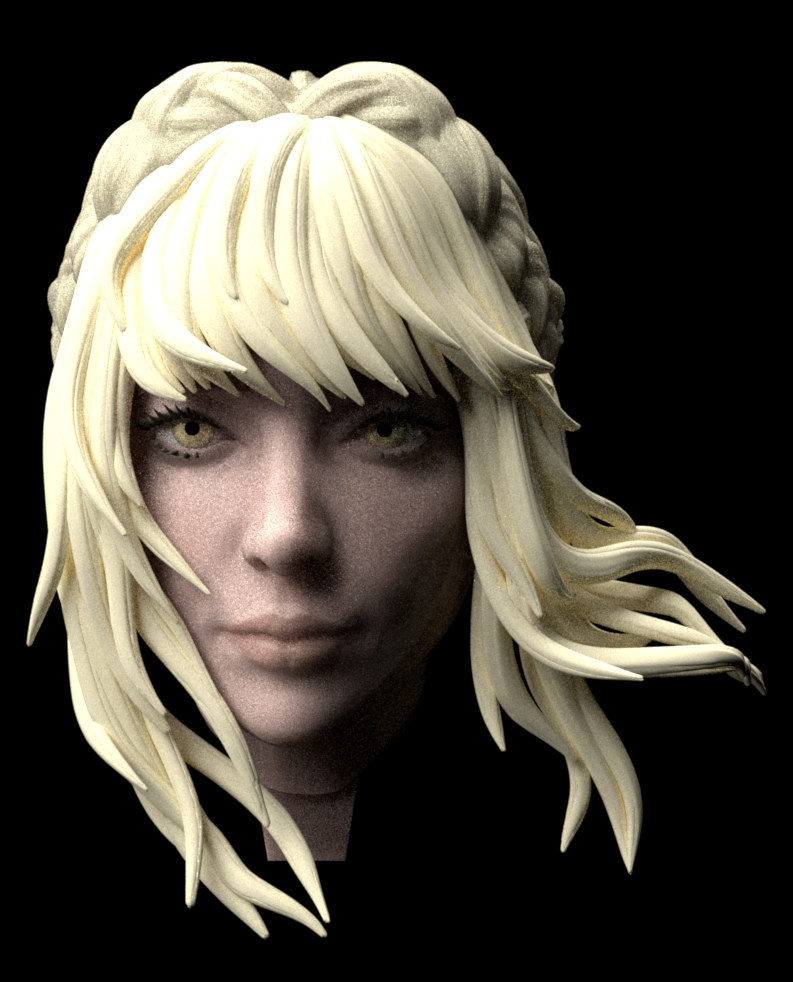
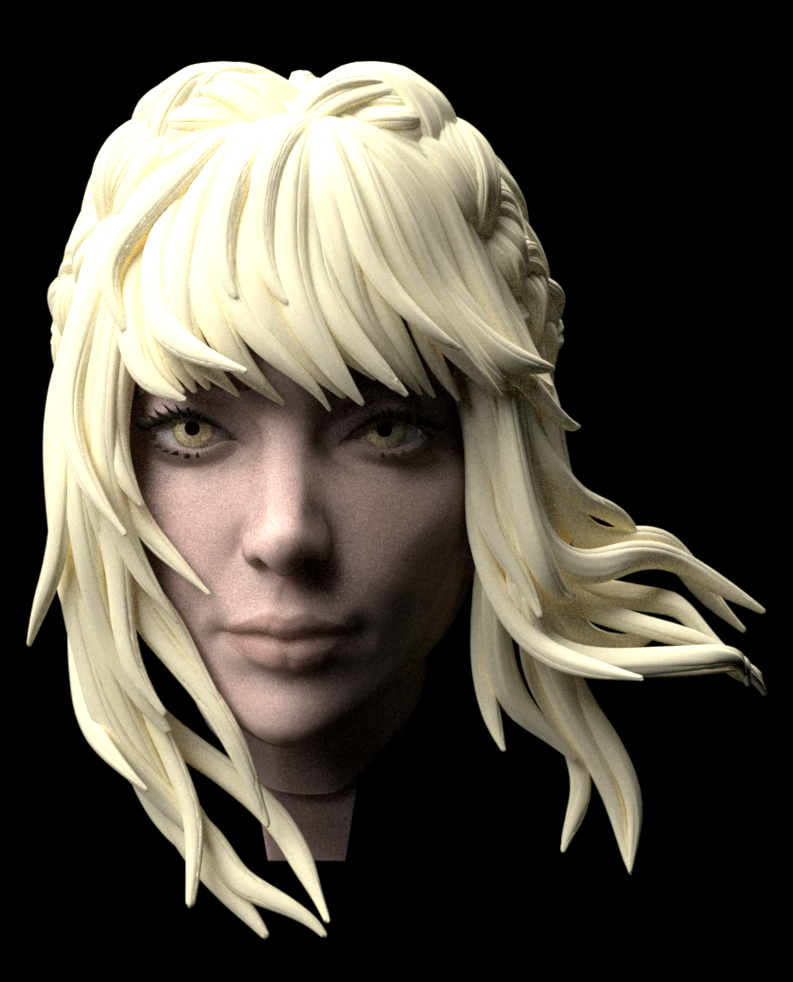
I have done basically nothing (small material changes)

diff --git a/src/skin.cpp b/src/skin.cpp
@@ -78,8 +78,11 @@ public:
 
     Color3f eval(const BSDFQueryRecord &bRec) const 
     {
-        if (bRec.agregate_id > 0) {
-            return m_bsdfs[bRec.agregate_id]->eval(bRec);
+        if (bRec.agregate_id == 1) {
+            return m_bsdfs[bRec.agregate_id]->eval(bRec) * w1;
+        }
+        else if (bRec.agregate_id == 2) {
+            return m_bsdfs[bRec.agregate_id]->eval(bRec) * w2;
         }
         else
         {
